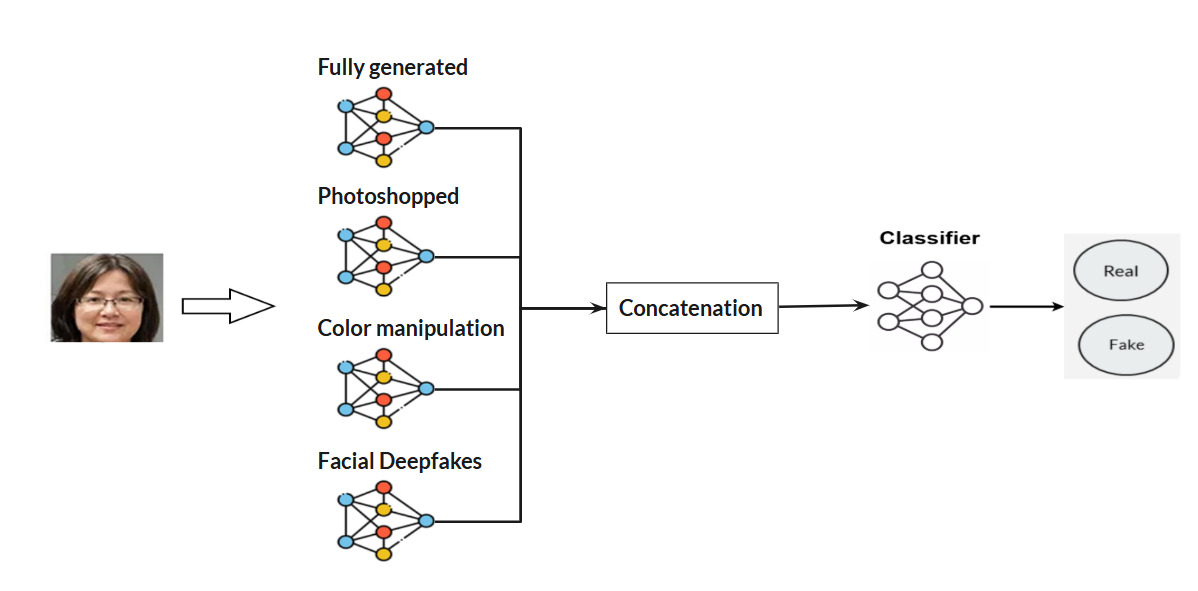
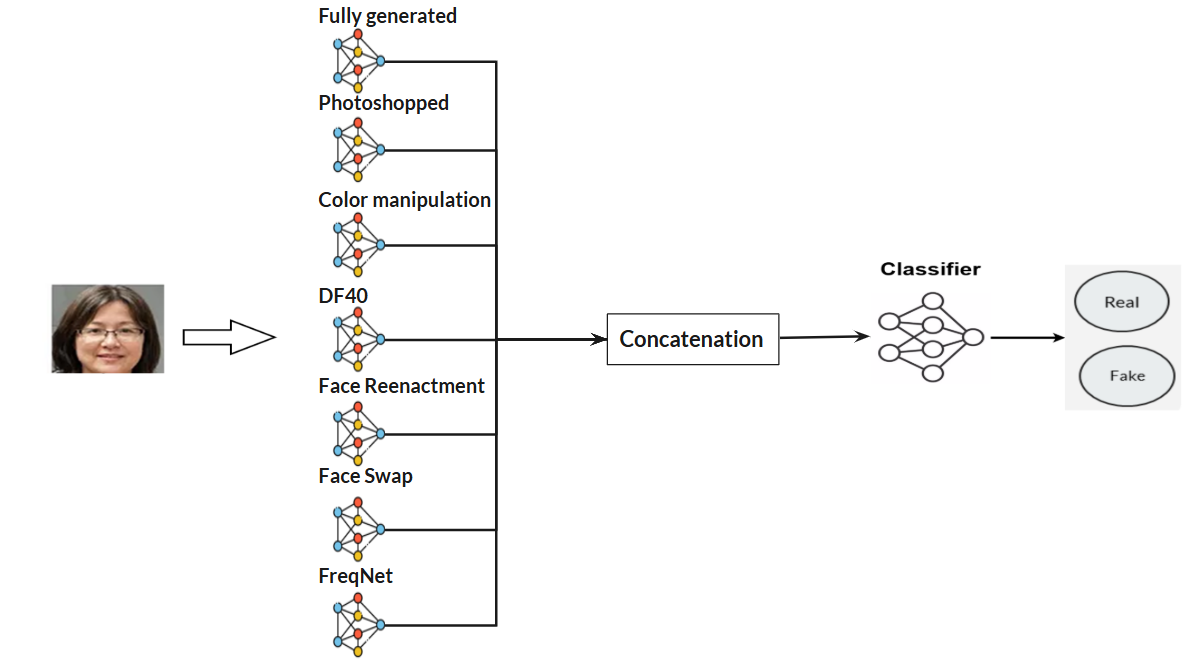
update readme

Changed region(s): [[0.2473, 0.0, 0.9891, 0.9746], [0.0309, 0.3959, 0.2473, 0.5787]]

diff --git a/README.md b/README.md
@@ -1,24 +1,25 @@
-# ImVerif-detector installation Guide
+# ImVerif-detector — Installation Guide
 
-## Overview
-ImVerif-detector is an ensemble-based classifier designed to detect whether an image is real or a deepfake. The ensemble combines multiple expert models, each trained to specialize in a particular type of manipulation:
 
-Fully Generated: Detects entirely synthetic images.
+**ImVerif-detector** is an ensemble-based image classifier designed to determine whether an image is authentic or manipulated (deepfake). The system combines multiple specialized models, each trained to detect a specific type of image manipulation:
 
-Photoshopped: Focuses on subtle retouching and partial modifications.
+- **Fully Generated**: Detects entirely synthetic images generated by GANs or Diffusion generative models.
+- **Photoshopped**: Targets subtle retouching and partial image modifications.
+- **Color Manipulation**: Detects unnatural alterations in color balance, tone, or lighting.
+- **DF40**: Focuses on facial deepfakes involving face swapping or synthesis.
+- **FR (Face Reenactment)**: Detects facial movements synthesized from real footage.
+- **FS (Face Swap)**: Identifies identity swaps in facial regions.
+- **FreqNet**: Operates in the frequency domain to identify GAN-generated artifacts.
 
-Color Manipulation: Captures unnatural adjustments to color and lighting.
+## Requirements
 
-Facial Deepfakes: Identifies face-swapped or manipulated facial content.
+- **Disk Space**: At least **45 GB** of free disk space is required for environment and model installation.
+- **Operating System**: This project is designed to run exclusively on **Linux** systems.
+- **Installation Time Estimates**:
+  - Download and installation of model weights: ~**5 minutes**
+  - Virtual environment setup: ~**30 minutes**
 
-## Estimated Time Requirements
-- Model weights download & installation: ~5 minutes
 
-- Virtual environment setup: ~30 minutes
-
-Please ensure that at least **45 GB** of free disk space is available before proceeding with the environment setup and model installation.
-
-**Note**: This code is intended to run exclusively on **Linux systems**.
 
 ## System Architecture
 ![System Architecture](figures/system_architecture.PNG)
